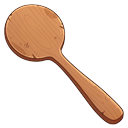
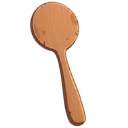
More fixes

diff --git a/popup.js b/popup.js
@@ -1,5 +1,6 @@
-/** Paste your walkthrough URL here once the video is up (Chrome footer toggle). */
-const CHROME_FOOTER_HELP_VIDEO_URL = "";
+/** Chrome Help: hide New Tab footer (opens in a new tab so the current page is unchanged). */
+const CHROME_FOOTER_HELP_URL =
+  "https://support.google.com/chrome/answer/11032183?hl=en&co=GENIE.Platform%3DDesktop#zippy=%2Cturn-new-tab-page-footer-on-or-off:~:text=on%20or%20off.-,Hide%20footer%20on%20New%20Tab%20page,-On%20your%20computer";
 
 /** URL for voting on the next inspired batch (popup link; opens in a new tab). */
 const INSPIRED_VIBES_VOTE_URL = "";
@@ -118,17 +119,15 @@ document.addEventListener("DOMContentLoaded", () => {
     }
   });
 
-  const footerVideoLink = document.getElementById("chrome-footer-video-link");
-  if (footerVideoLink) {
-    const url = CHROME_FOOTER_HELP_VIDEO_URL.trim();
-    if (url) {
-      footerVideoLink.href = url;
-      footerVideoLink.target = "_blank";
-    } else {
-      footerVideoLink.classList.add("chrome-footer-tip__link--pending");
-      footerVideoLink.title = "Add your YouTube URL to CHROME_FOOTER_HELP_VIDEO_URL in popup.js";
-      footerVideoLink.addEventListener("click", (e) => e.preventDefault());
-    }
+  const footerHelpLink = document.getElementById("chrome-footer-help-link");
+  if (footerHelpLink) {
+    const url = CHROME_FOOTER_HELP_URL.trim();
+    footerHelpLink.href = url;
+    footerHelpLink.addEventListener("click", (e) => {
+      e.preventDefault();
+      chrome.tabs.create({ url });
+      window.close();
+    });
   }
 
   const inspiredVoteLink = document.getElementById("inspired-vibes-vote-link");

diff --git a/popup.html b/popup.html
@@ -23,6 +23,7 @@
       min-width: 460px;
       max-width: 460px;
       height: auto;
+      overflow: hidden;
     }
 
     body {
@@ -30,13 +31,14 @@
       min-width: 460px;
       max-width: 460px;
       height: auto;
+      margin: 0;
       background: #0d0a1a;
       color: #e8d5ff;
       font-family: 'Syne', sans-serif;
       padding: 1.25rem 1.4rem 1rem;
       overflow-x: hidden;
       overflow-y: hidden;
-      margin: 0;
+      box-sizing: border-box;
     }
 
     :root {
@@ -51,6 +53,15 @@
       max-height: var(--popup-fold-px);
       overflow-x: hidden;
       overflow-y: auto;
+      overscroll-behavior: contain;
+      /* Hide in-page scrollbar so it never sits on top of theme rows; scroll still works via wheel / trackpad */
+      scrollbar-width: none;
+      -ms-overflow-style: none;
+    }
+    .popup-scroll::-webkit-scrollbar {
+      width: 0;
+      height: 0;
+      display: none;
     }
 
     .header-row {
@@ -915,16 +926,14 @@
 
   <div class="chrome-footer-tip">
     <p class="chrome-footer-tip__text">
-      The bar at the bottom isn’t Vibescape—it’s Chrome.<br />
-      Open <strong>Customize Chrome</strong> → <strong>Footer</strong> → turn off
-      <strong>Show footer on New Tab page</strong>.
+      The grey bar at the bottom isn’t Vibescape—it’s Chrome.
     </p>
     <a
       class="chrome-footer-tip__link"
-      id="chrome-footer-video-link"
+      id="chrome-footer-help-link"
       href="#"
       rel="noopener noreferrer"
-    >YouTube: how to hide it →</a>
+    >here's how to hide it →</a>
   </div>
   </div>
 

diff --git a/newtab.html b/newtab.html
@@ -3392,7 +3392,7 @@
       background: #0a060c;
       /* Jost ≈ geometric sans era of Futura — everywhere in 80s print, signage, and packaging */
       font-family: 'Jost', ui-sans-serif, system-ui, sans-serif;
-      cursor: url('assets/cursors/processed/stranger-things-cursor.png') 38 5, auto;
+      cursor: url('assets/cursors/processed/stranger-things-cursor.png') 25 4, auto;
     }
     body.strangerthings input.search-bar,
     body.strangerthings textarea {

diff --git a/newtab.js b/newtab.js
@@ -86,7 +86,7 @@ const themes = {
     searchPlaceholder: "seek silver-thread answers..."
   },
   tyrellnoir: {
-    searchPlaceholder: "trace one more lead through the rain..."
+    searchPlaceholder: "trace the signal..."
   },
   arrakisstone: {
     searchPlaceholder: "cross the open dune of thought..."

diff --git a/scripts/process-cursor-imports.py b/scripts/process-cursor-imports.py
@@ -36,6 +36,7 @@ POST_FIT_LINEAR_SCALE: dict[str, float] = {
     "frozen-cursor.png": 0.5625,
     "lord-of-the-rings-cursor.png": 0.7,
     "shrek-cursor.png": 0.6,
+    "stranger-things-cursor.png": 0.65,
 }
 
 # Uniform zoom then crop back to the current square (Chrome 128px cap). Tuple: (zoom, vertical: "center"|"top"|"bottom").
